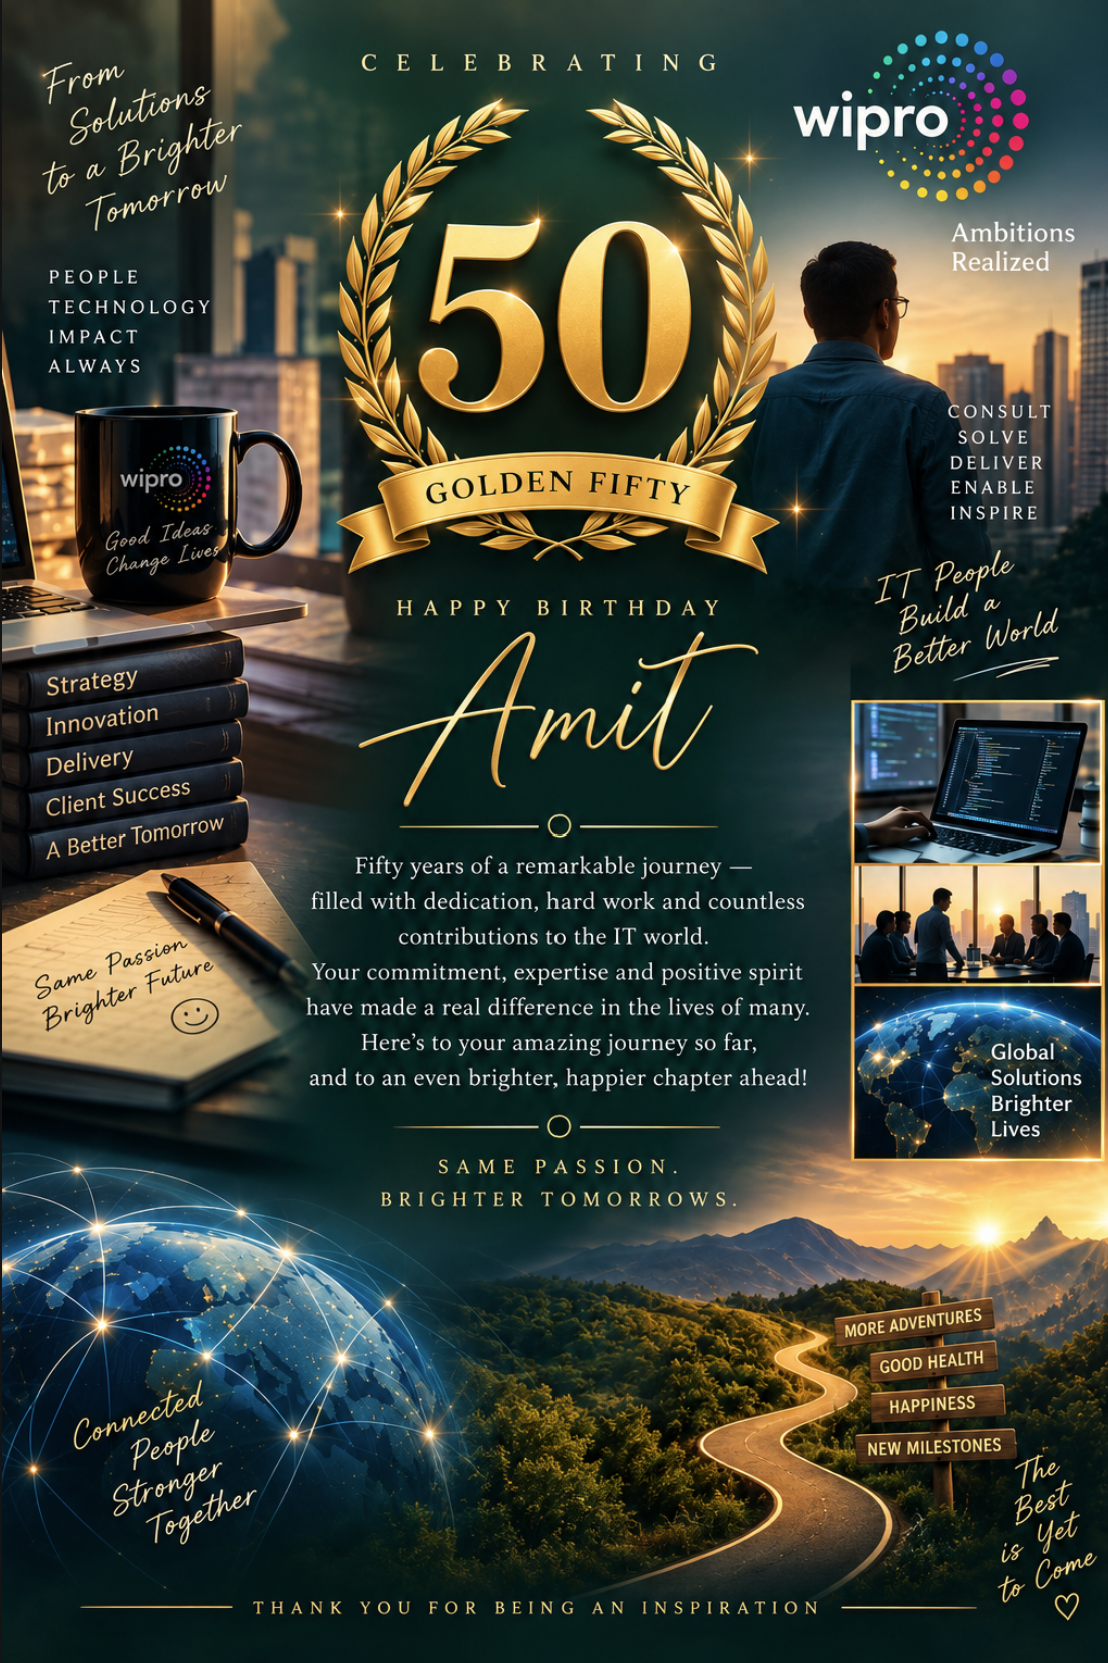
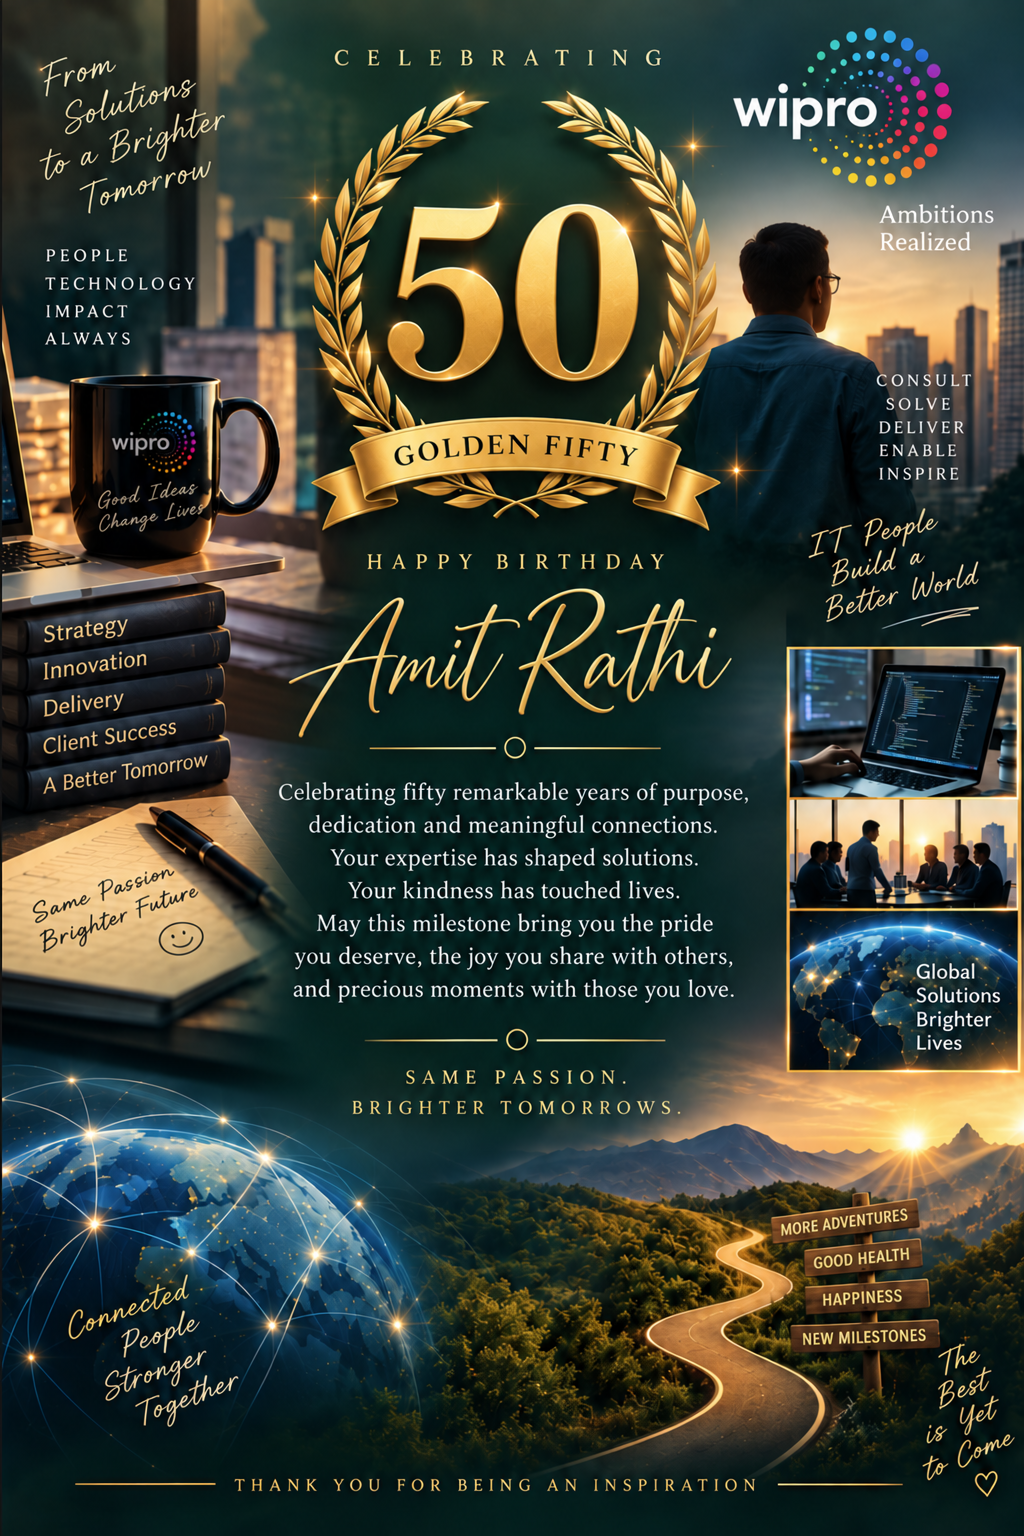
Personalize card for Amit Rathi with heartfelt birthday tribute

diff --git a/index.html b/index.html
@@ -4,11 +4,12 @@
 <meta charset="utf-8">
 <meta name="viewport" content="width=device-width, initial-scale=1">
 <meta name="theme-color" content="#0a2e2b">
-<meta name="description" content="Celebrating Amit’s golden fifty — a special birthday keepsake.">
-<title>Amit’s Golden Fifty</title>
+<meta name="description" content="Celebrating Amit Rathi’s golden fifty . a special birthday keepsake.">
+<title>Amit Rathi’s Golden Fifty</title>
 <style>
 *{box-sizing:border-box}html{background:#0a2e2b;color:#f4ecd8}body{margin:0;font-family:system-ui,sans-serif}main{max-width:1100px;margin:auto;padding:clamp(8px,3vw,32px)}h1{font:600 clamp(1.35rem,4vw,2rem) Georgia,serif;text-align:center;color:#ecd48a;margin:12px 0 24px}img{display:block;width:100%;height:auto;box-shadow:0 12px 48px #0005}footer{text-align:center;padding:24px 8px}a{color:#ecd48a;text-underline-offset:4px;display:inline-block;padding:12px}a:focus-visible{outline:2px solid #ecd48a;outline-offset:4px}
 </style>
 </head>
-<body><main><h1>Amit’s Golden Fifty</h1><a href="amit-50th-birthday.png" aria-label="Open Amit’s birthday card at full resolution" style="display:block;padding:0"><img src="amit-50th-birthday.png" alt="Amit’s 50th birthday celebration card" fetchpriority="high"></a><footer><a href="amit-50th-birthday.png" download>Download the full-quality card</a></footer></main></body>
+<body><main><h1>Amit Rathi’s Golden Fifty</h1><a href="amit-50th-birthday.png?v=2" aria-label="Open Amit Rathi’s birthday card at full resolution" style="display:block;padding:0"><img src="amit-50th-birthday.png?v=2" alt="Amit Rathi’s 50th birthday celebration card" fetchpriority="high"></a><footer><a href="amit-50th-birthday.png?v=2" download>Download the full-quality card</a></footer></main></body>
 </html>
+
